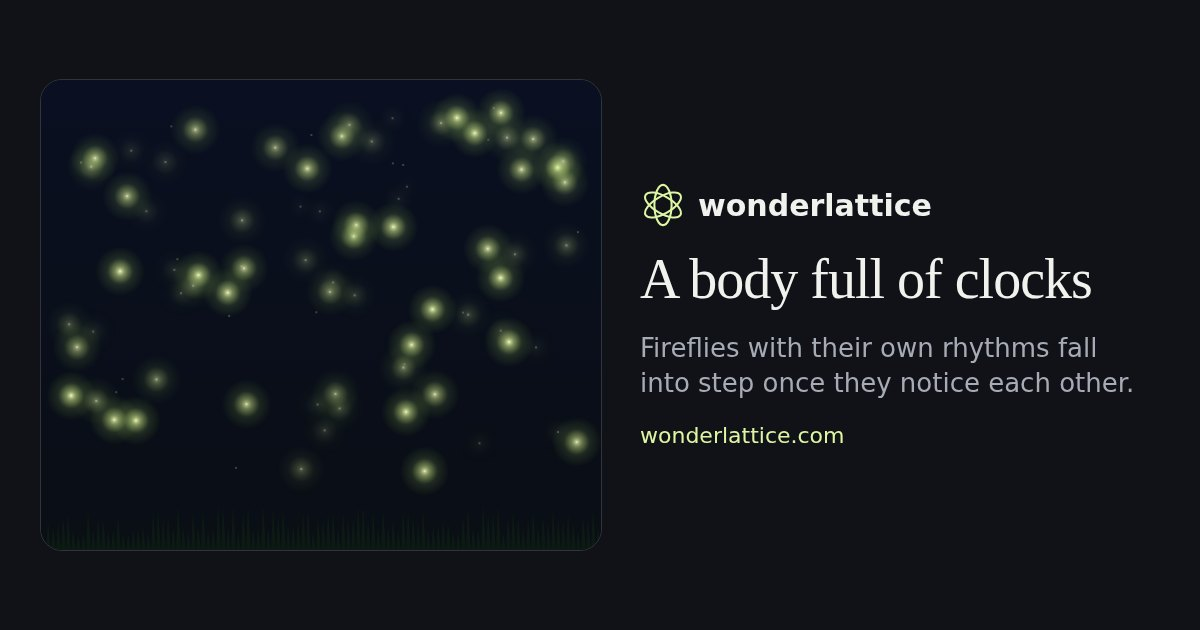
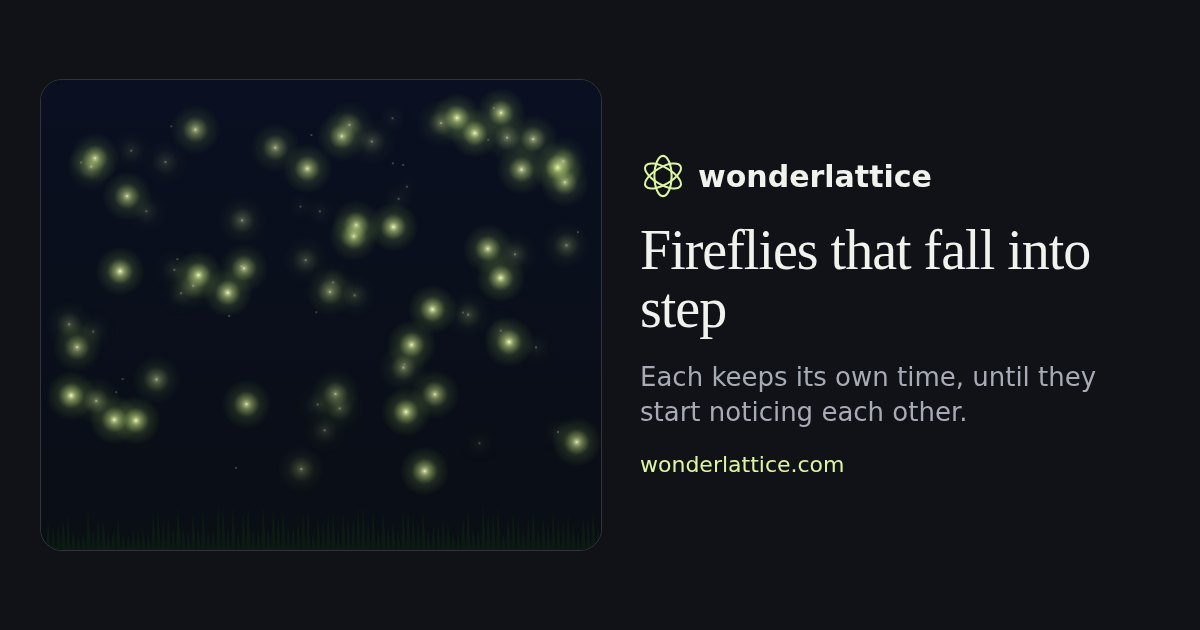
Rename the fireflies room: "Fireflies that fall into step" (#45)
The picture is fireflies, but the name ("A body full of clocks") talked
about body clocks, which are only the room's second part. Renamed in all
five languages (he: גחליליות שנכנסות לאותו קצב; es: Luciérnagas que se
sincronizan; pt: Vaga-lumes que entram no ritmo; fr: Des lucioles qui se
synchronisent), with a tagline that no longer repeats the name, and a
new link-preview picture. The room id and shared links are unchanged.

Claude-Session: https://claude.ai/code/session_01DJvN3cfgaQHSC2VceYdukE

Changed region(s): [[0.5242, 0.2413, 0.9558, 0.754]]

diff --git a/src/lang/he.js b/src/lang/he.js
@@ -367,9 +367,9 @@ Wonderlattice.defineText('flock', 'he', {
 
 Wonderlattice.defineText('fireflies', 'he', {
   eyebrow: 'סנכרון',
-  name: 'גוף מלא שעונים',
-  tagline: 'גחליליות שלכל אחת קצב משלה מתחילות להבהב יחד, ברגע שהן שמות לב זו לזו.',
-  title: 'גוף מלא שעונים.',
+  name: 'גחליליות שנכנסות לאותו קצב',
+  tagline: 'לכל אחת קצב משלה, עד שהן מתחילות לשים לב זו לזו.',
+  title: 'גחליליות שנכנסות לאותו קצב.',
   subtitle: 'כל גחלילית שומרת על זמן משלה. תנו להן לשים לב זו לזו, וראו איך נולד קצב משותף.',
   field: 'מערכות דינמיות · מתנדים מצומדים · ביולוגיה',
   sceneLabel: 'אחו אחד · הרבה שעונים',

diff --git a/src/rooms/fireflies/text.en.js b/src/rooms/fireflies/text.en.js
@@ -1,9 +1,9 @@
-/* A body full of clocks · visitor-facing words (English). */
+/* Fireflies that fall into step · visitor-facing words (English). */
 Wonderlattice.defineText('fireflies', 'en', {
   eyebrow: 'SYNCHRONY',
-  name: 'A body full of clocks',
-  tagline: 'Fireflies with their own rhythms fall into step once they notice each other.',
-  title: 'A body full of clocks.',
+  name: 'Fireflies that fall into step',
+  tagline: 'Each keeps its own time, until they start noticing each other.',
+  title: 'Fireflies that fall into step.',
   subtitle: 'Each firefly keeps its own time. Let them notice each other, and watch a shared rhythm appear.',
   field: 'Dynamical systems · Coupled oscillators · Biology',
   sceneLabel: 'One meadow · many clocks',

diff --git a/src/lang/fr.js b/src/lang/fr.js
@@ -375,9 +375,9 @@ Wonderlattice.defineText('flock', 'fr', {
 
 Wonderlattice.defineText('fireflies', 'fr', {
   eyebrow: 'SYNCHRONIE',
-  name: 'Un corps plein d’horloges',
-  tagline: 'Des lucioles, chacune à son rythme, se mettent à clignoter ensemble dès qu’elles se remarquent.',
-  title: 'Un corps plein d’horloges.',
+  name: 'Des lucioles qui se synchronisent',
+  tagline: 'Chacune à son rythme, jusqu’à ce qu’elles commencent à se remarquer.',
+  title: 'Des lucioles qui se synchronisent.',
   subtitle: 'Chaque luciole a son propre tempo. Laissez-les se remarquer, et regardez un rythme commun apparaître.',
   field: 'Systèmes dynamiques · Oscillateurs couplés · Biologie',
   sceneLabel: 'Une prairie · beaucoup d’horloges',

diff --git a/src/lang/pt.js b/src/lang/pt.js
@@ -366,9 +366,9 @@ Wonderlattice.defineText('flock', 'pt', {
 
 Wonderlattice.defineText('fireflies', 'pt', {
   eyebrow: 'SINCRONIA',
-  name: 'Um corpo cheio de relógios',
-  tagline: 'Vaga-lumes, cada um no seu ritmo, começam a piscar juntos assim que prestam atenção uns nos outros.',
-  title: 'Um corpo cheio de relógios.',
+  name: 'Vaga-lumes que entram no ritmo',
+  tagline: 'Cada um no seu ritmo, até que começam a prestar atenção uns nos outros.',
+  title: 'Vaga-lumes que entram no ritmo.',
   subtitle:
     'Cada vaga-lume marca o seu próprio tempo. Deixe que prestem atenção uns nos outros e veja surgir um ritmo comum.',
   field: 'Sistemas dinâmicos · Osciladores acoplados · Biologia',

diff --git a/src/lang/es.js b/src/lang/es.js
@@ -367,9 +367,9 @@ Wonderlattice.defineText('flock', 'es', {
 
 Wonderlattice.defineText('fireflies', 'es', {
   eyebrow: 'SINCRONÍA',
-  name: 'Un cuerpo lleno de relojes',
-  tagline: 'Luciérnagas con su propio ritmo empiezan a destellar juntas en cuanto se fijan unas en otras.',
-  title: 'Un cuerpo lleno de relojes.',
+  name: 'Luciérnagas que se sincronizan',
+  tagline: 'Cada una lleva su propio ritmo, hasta que empiezan a fijarse unas en otras.',
+  title: 'Luciérnagas que se sincronizan.',
   subtitle:
     'Cada luciérnaga lleva su propio tiempo. Deja que se fijen unas en otras y mira cómo aparece un ritmo común.',
   field: 'Sistemas dinámicos · Osciladores acoplados · Biología',

diff --git a/src/rooms/fireflies/model.js b/src/rooms/fireflies/model.js
@@ -1,5 +1,5 @@
 /*
- * A body full of clocks · coupled oscillators (the Kuramoto model), with an optional day–night drive.
+ * Fireflies that fall into step · coupled oscillators (the Kuramoto model), with an optional day–night drive.
  * Pure functions, no DOM.
  *
  * Each clock i has a phase θᵢ (radians) and a natural frequency ωᵢ (cycles per second). It moves on at its own

diff --git a/tests/browser/helpers.js b/tests/browser/helpers.js
@@ -4,7 +4,7 @@ export const ROOMS = {
   motion: 'Paint with motion.',
   waves: 'Hear the shape.',
   flock: 'A mind of many.',
-  fireflies: 'A body full of clocks.',
+  fireflies: 'Fireflies that fall into step.',
   ribbon: 'Where is the other side?',
   traffic: 'The tempting shortcut.',
   shots: 'Two players, three leaderboards.',

diff --git a/src/rooms/fireflies/room.js b/src/rooms/fireflies/room.js
@@ -1,4 +1,4 @@
-/* Room · A body full of clocks: fireflies that fall into step (coupled oscillators). */
+/* Room · Fireflies that fall into step: coupled oscillators, and the body's clocks. */
 (() => {
   'use strict';
 

diff --git a/docs/STATUS.md b/docs/STATUS.md
@@ -7,7 +7,7 @@ merged by the owner in the morning. The site now has eighteen rooms.
 
 - **A seed for an infinite landscape** (`julia`, Shape & space, #41, closes #9): drag a seed on the Mandelbrot set and
   its Julia set changes live; tap to follow one point's journey. The review fixed its home card on sharp screens.
-- **A body full of clocks** (`fireflies`, Living patterns, #39, closes #15): Kuramoto synchronisation with a
+- **Fireflies that fall into step** (`fireflies`, first named "A body full of clocks"; Living patterns, #39, closes #15): Kuramoto synchronisation with a
   day–night cycle and jet lag. Soft glows; the worst-case flicker is about 2% of the view.
 - **A heartbeat travels** (`heart`, Living patterns, #40, closes #14): waves in an excitable medium (Barkley's model)
   that curl into spirals; explicitly a toy, not a heart simulation.
